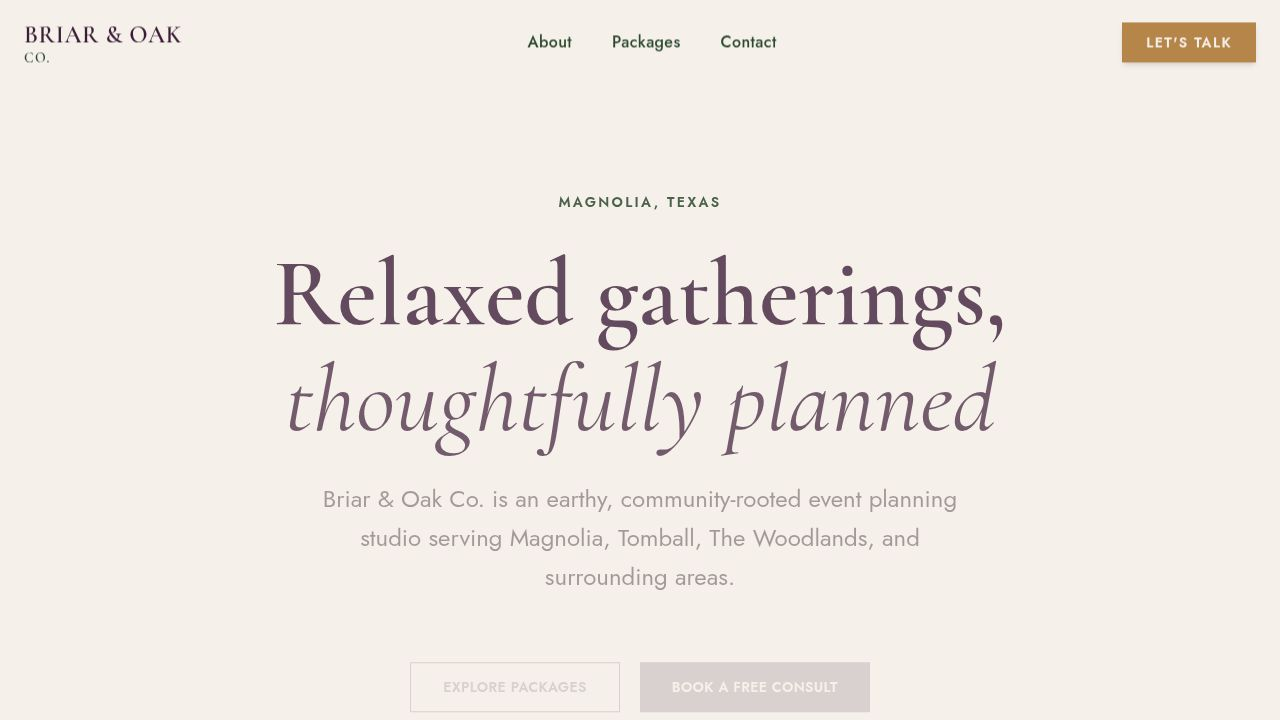
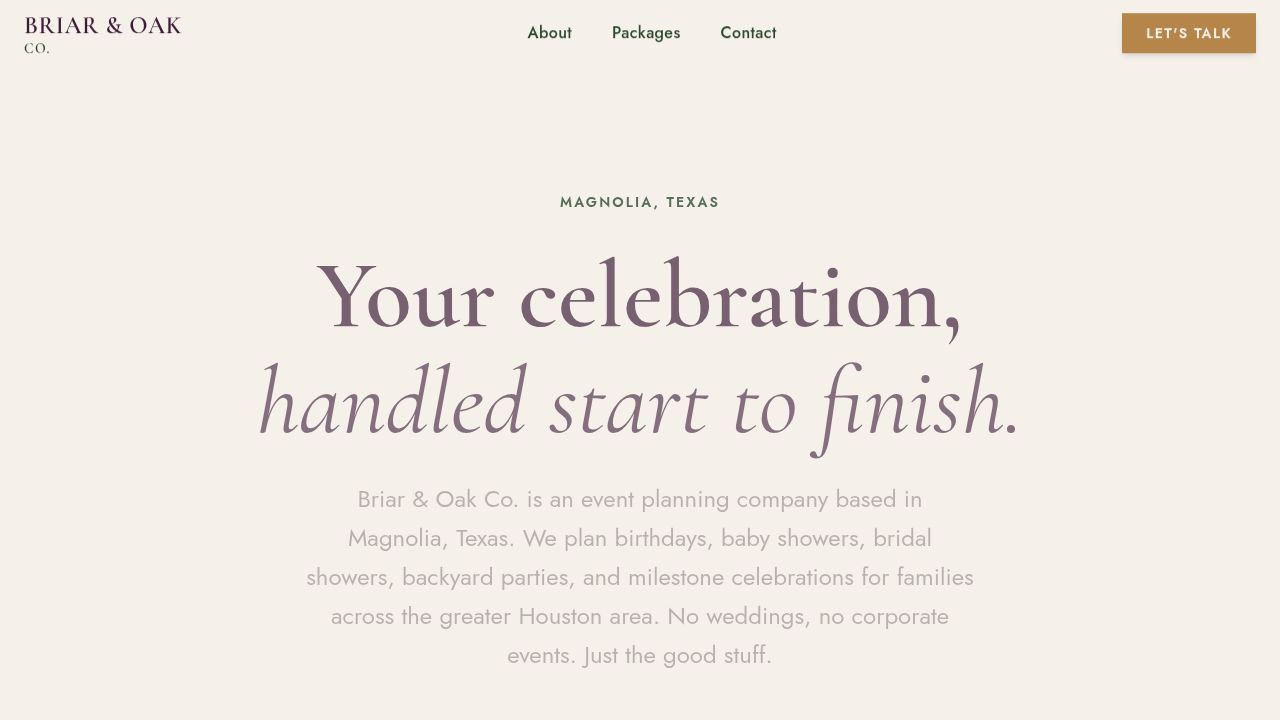
Update website copy to be more engaging and conversion-focused
Rewrote content across multiple sections of the Home page, including the hero section, value propositions, services, how it works, and contact information, to adopt a more direct, plain-English tone. Modified the hero headline from "Relaxed gatherings, thoughtfully planned" to "Your celebration, handled start to finish." Updated the introductory paragraph to remove "boutique," add "backyard parties," and include "No weddings... Just the good stuff." Also adjusted the main heading to "We handle the details. You enjoy the party." and refined descriptions for services and the "How It Works" section.

Replit-Commit-Author: Agent
Replit-Commit-Session-Id: 8c7bea66-9861-49b7-a046-77f193d11296
Replit-Commit-Checkpoint-Type: full_checkpoint
Replit-Commit-Event-Id: e7e9ddc0-1285-43bc-9b09-d9fd657cd020
Replit-Commit-Screenshot-Url: https://storage.googleapis.com/screenshot-production-us-central1/0bafb7d4-fdce-40b5-b9f4-70df4a1e8653/8c7bea66-9861-49b7-a046-77f193d11296/qvYMype
Replit-Helium-Checkpoint-Created: true

diff --git a/artifacts/briar-oak/src/pages/Home.tsx b/artifacts/briar-oak/src/pages/Home.tsx
@@ -63,9 +63,9 @@ export default function Home() {
             transition={{ duration: 0.8, delay: 0.4 }}
             className="text-primary text-5xl md:text-7xl lg:text-8xl font-serif font-semibold leading-[1.1] mb-8"
           >
-            Relaxed gatherings, <br />
+            Your celebration, <br />
             <span className="italic font-light text-primary/90">
-              thoughtfully planned
+              handled start to finish.
             </span>
           </motion.h1>
 
@@ -75,10 +75,10 @@ export default function Home() {
             transition={{ duration: 0.8, delay: 0.6 }}
             className="text-foreground/80 text-xl md:text-2xl mb-12 max-w-2xl mx-auto leading-relaxed font-light"
           >
-            Briar & Oak Co. is a boutique event planning company based in
-            Magnolia, Texas. We specialize in birthdays, baby showers, bridal
-            showers, and milestone celebrations for families across the greater
-            Houston area.
+            Briar & Oak Co. is an event planning company based in Magnolia,
+            Texas. We plan birthdays, baby showers, bridal showers, backyard
+            parties, and milestone celebrations for families across the greater
+            Houston area. No weddings, no corporate events. Just the good stuff.
           </motion.p>
 
           <motion.div
@@ -115,28 +115,28 @@ export default function Home() {
             variants={staggerContainer}
           >
             <motion.h2 variants={fadeUp} className="text-primary text-4xl md:text-5xl font-serif font-semibold mb-8 leading-tight">
-              Beautiful gatherings begin with a thoughtful plan.
+              We handle the details. You enjoy the party.
             </motion.h2>
             <motion.p variants={fadeUp} className="text-foreground/90 text-lg mb-6 leading-relaxed">
-              We specialize in the gatherings that matter most: birthdays, baby showers, bridal showers, milestone celebrations, and everything in between.
+              Birthdays, baby showers, bridal showers, backyard parties, milestone dinners, and everything in between. If it's a gathering worth celebrating, we can plan it.
             </motion.p>
             <motion.p variants={fadeUp} className="text-foreground/80 text-lg mb-10 italic">
-              No weddings. No corporate events. Just meaningful occasions planned with care, right here in your neighborhood.
+              We focus on social events in Magnolia and the surrounding areas. No weddings, no corporate gigs. That focus means every client gets our full attention.
             </motion.p>
             
             <div className="space-y-6">
               {[
                 { 
-                  title: "Thoughtfully Personal", 
-                  desc: "Every detail is shaped around your style, your guests, and your vision—so your celebration feels personal, polished, and truly your own." 
+                  title: "Built Around You", 
+                  desc: "Every plan starts with a real conversation about what you want, who's coming, and how you want the day to feel." 
                 },
                 { 
-                  title: "Calm, Capable Support", 
-                  desc: "Whether you need full event direction or simply a professional plan to follow, we bring structure, clarity, and thoughtful guidance from the very beginning." 
+                  title: "Calm on Event Day", 
+                  desc: "You show up. We run the details behind the scenes so nothing falls through the cracks." 
                 },
                 { 
-                  title: "Rooted in Community", 
-                  desc: "Based in Magnolia since 2020, we know and love this area. We are proud to plan for the families who call it home." 
+                  title: "Local Since 2020", 
+                  desc: "We live and work in Magnolia. We know the venues, the neighborhoods, and the families who make this community great." 
                 }
               ].map((item, idx) => (
                 <motion.div key={idx} variants={fadeUp} className="bg-muted/40 p-6 border-l-4 border-accent hover:bg-muted/80 transition-colors duration-300">
@@ -174,10 +174,10 @@ export default function Home() {
             className="text-center mb-16 md:mb-24"
           >
             <h2 className="text-primary text-4xl md:text-5xl font-serif font-semibold mb-6">
-              Services &amp; Packages
+              What We Offer
             </h2>
             <p className="text-foreground/80 text-lg max-w-2xl mx-auto leading-relaxed">
-              One signature planning experience plus a lighter design-only option, so you can choose the level of support that fits your gathering, your style, and your budget.
+              Two options depending on how much help you want. One is full planning with day-of support. The other is a design session and game plan you can run with yourself.
             </p>
             <p className="mt-6 text-sm text-secondary font-bold uppercase tracking-widest">
               All bookings require a 50% non-refundable retainer
@@ -196,7 +196,7 @@ export default function Home() {
                 Signature Service
               </div>
               <span className="text-xs uppercase tracking-[0.2em] text-secondary font-bold mb-3">
-                Signature Planning &amp; Event Direction
+                Full Planning + Event Day Support
               </span>
               <h3 className="text-primary text-3xl font-serif mb-2">
                 The Briar
@@ -205,7 +205,7 @@ export default function Home() {
                 Starting at $1,500
               </p>
               <p className="text-sm text-foreground/80 leading-relaxed mb-8">
-                For the host who wants a beautifully considered gathering without carrying the weight of every decision, detail, and vendor conversation. The Briar is our signature planning experience—bespoke, polished, and thoughtfully tailored to the way you want your event to feel from the moment guests arrive.
+                The Briar is the right pick if you want someone to handle the planning from start to finish and show up on event day to run things. You focus on your guests. We take care of everything else.
               </p>
               <ul className="text-sm space-y-4 mb-8 flex-grow text-foreground/80">
                 <li className="flex items-start">
@@ -238,7 +238,7 @@ export default function Home() {
                 </li>
               </ul>
               <p className="text-sm italic mb-4 text-foreground/60 border-t border-border pt-4">
-                Designed for intimate celebrations that deserve to feel refined, deeply personal, and quietly elevated.
+                Best for gatherings where you want to feel like a guest, not a coordinator.
               </p>
               <p className="text-xs leading-relaxed text-foreground/60 mb-8">
                 Onsite coverage is focused on overseeing setup, guiding vendors, styling final details, and staying through the beginning of your event until everything is moving smoothly. If you’d like support beyond that point—such as dinner service, toasts, cake cutting, or teardown—extended coverage can be added for an additional fee.
@@ -247,7 +247,7 @@ export default function Home() {
                 onClick={scrollTo("contact")}
                 className="block w-full text-center py-4 text-xs font-bold uppercase tracking-[0.2em] bg-accent text-accent-foreground hover:bg-primary transition-all duration-300"
               >
-                Begin Your Briar Experience
+                Inquire About The Briar
               </button>
             </motion.div>
             {/* The Seedling - planning only */}
@@ -259,7 +259,7 @@ export default function Home() {
               className="bg-background p-8 lg:p-10 flex flex-col h-full border border-border shadow-sm hover:shadow-md hover:-translate-y-1 transition-all duration-300"
             >
               <span className="text-xs uppercase tracking-[0.2em] text-secondary font-bold mb-3">
-                Design &amp; Game Plan
+                Design Session + Game Plan
               </span>
               <h3 className="text-primary text-3xl font-serif mb-2">
                 The Seedling
@@ -268,7 +268,7 @@ export default function Home() {
                 Flat fee starting around $400–$600
               </p>
               <p className="text-sm text-foreground/80 leading-relaxed mb-8">
-                For the host who loves a beautiful gathering and simply wants an expert plan before taking it from there. The Seedling is a focused design and strategy service that gives you a clear vision, an organized roadmap, and the confidence to execute it yourself.
+                The Seedling is for hosts who want a solid plan and a clear vision but prefer to handle the setup and execution themselves. We meet, map it out, and hand you a plan you can actually use.
               </p>
               <ul className="text-sm space-y-4 mb-8 flex-grow text-foreground/80">
                 <li className="flex items-start">
@@ -297,13 +297,13 @@ export default function Home() {
                 </li>
               </ul>
               <p className="text-sm italic mb-8 text-foreground/60 border-t border-border pt-4">
-                Perfect for DIY-minded hosts who want the benefit of a professional eye and a cohesive plan, then carry it out themselves.
+                A good pick for DIY hosts who want a professional eye without the full-service price tag.
               </p>
               <button
                 onClick={scrollTo("contact")}
                 className="block w-full text-center py-4 text-xs font-bold uppercase tracking-[0.2em] bg-primary text-primary-foreground hover:bg-primary/90 transition-all duration-300"
               >
-                Book Your Design Session
+                Book a Design Session
               </button>
             </motion.div>
           </div>
@@ -320,7 +320,7 @@ export default function Home() {
                 How It Works
               </h3>
               <p className="text-foreground/75 text-base md:text-lg max-w-2xl mx-auto leading-relaxed">
-                Every Briar &amp; Oak Co. experience begins with a conversation, then moves into the level of support that best fits your gathering.
+                Every project starts with a free consult call. From there, it depends on which package fits your event.
               </p>
             </motion.div>
             <div className="grid md:grid-cols-2 gap-10 md:gap-12">
@@ -343,7 +343,7 @@ export default function Home() {
                   </div>
                   <div className="border-l-2 border-accent pl-5">
                     <p className="text-xs uppercase tracking-[0.18em] text-secondary font-bold mb-2">Step 3</p>
-                    <p className="text-foreground/85 leading-relaxed">We begin planning. From design direction to vendor coordination and event logistics, I handle the moving parts behind the scenes while keeping you focused on the decisions that matter most.</p>
+                    <p className="text-foreground/85 leading-relaxed">We get to work. Design direction, vendor sourcing, logistics, and all the back-and-forth that comes with planning a real event.</p>
                   </div>
                   <div className="border-l-2 border-accent pl-5">
                     <p className="text-xs uppercase tracking-[0.18em] text-secondary font-bold mb-2">Step 4</p>
@@ -357,12 +357,12 @@ export default function Home() {
                   The Seedling
                 </p>
                 <h4 className="text-primary text-2xl font-serif mb-6">
-                  Design &amp; Game Plan Process
+                  Design Session Process
                 </h4>
                 <div className="space-y-6">
                   <div className="border-l-2 border-accent pl-5">
                     <p className="text-xs uppercase tracking-[0.18em] text-secondary font-bold mb-2">Step 1</p>
-                    <p className="text-foreground/85 leading-relaxed">Begin with a complimentary consult so we can talk through your event and confirm whether The Seedling is the right fit, or if your gathering would benefit from a more hands-on planning experience.</p>
+                    <p className="text-foreground/85 leading-relaxed">We start with a free call to talk through your event and make sure The Seedling is the right fit.</p>
                   </div>
                   <div className="border-l-2 border-accent pl-5">
                     <p className="text-xs uppercase tracking-[0.18em] text-secondary font-bold mb-2">Step 2</p>
@@ -370,7 +370,7 @@ export default function Home() {
                   </div>
                   <div className="border-l-2 border-accent pl-5">
                     <p className="text-xs uppercase tracking-[0.18em] text-secondary font-bold mb-2">Step 3</p>
-                    <p className="text-foreground/85 leading-relaxed">We meet for a focused 60–90 minute planning and design session to walk through your space, layout, style, and setup priorities.</p>
+                    <p className="text-foreground/85 leading-relaxed">We meet for 60 to 90 minutes to go over your space, layout, style, and setup priorities.</p>
                   </div>
                   <div className="border-l-2 border-accent pl-5">
                     <p className="text-xs uppercase tracking-[0.18em] text-secondary font-bold mb-2">Step 4</p>
@@ -429,16 +429,16 @@ export default function Home() {
           className="text-foreground/90 text-lg md:text-xl leading-relaxed mb-6 font-light space-y-5 text-center mx-auto max-w-3xl"
         >
           <p>
-            I came to event planning the long way around. After years of managing complex programs in tech, juggling timelines, solving challenges, making sure every detail came together, I realized the moments that actually matter to me weren't happening in conference rooms. They were the dinners with friends, the celebrations with family, the gatherings that brought people together around a table.
+            Before I started Briar & Oak, I spent years in tech managing complex programs with tight deadlines and a lot of moving parts. I was good at it. But my favorite projects were always the ones that happened outside of work: the birthday dinners, the family gatherings, the events where people actually showed up and stayed too long.
           </p>
           <p>
-            That realization changed everything. I wanted to create that magic for others, to handle all the moving parts so you can actually be present with the people you love.
+            I started this business because I wanted to do that for other people. Show up, handle the details, and make it easier for you to be present with the people you're celebrating with.
           </p>
           <p>
-            Briar & Oak Co. is about protecting and honoring those moments. Whether it's your 40th birthday, your daughter's baby shower, or a milestone that deserves more than logistics, I'm here to make sure every detail reflects who you are and what this celebration means.
+            We focus on social events only: birthdays, baby showers, bridal showers, backyard parties, and milestone celebrations in Magnolia and the surrounding areas. No weddings, no corporate work. That keeps my schedule and my attention where they belong.
           </p>
           <p>
-            I bring a project manager's precision and a hostess's genuine warmth to your event. I'll sweat the details so you don't have to.
+            If you want someone who takes your event as seriously as you do and knows how to stay calm when things get complicated, I think we'll work well together.
           </p>
         </motion.div>
 
@@ -482,23 +482,23 @@ export default function Home() {
               variants={fadeUp}
               className="text-4xl md:text-5xl lg:text-6xl font-serif font-semibold mb-6 leading-tight"
             >
-              Let's plan something{" "}
-              <span className="italic text-accent">beautiful.</span>
+              Ready to get{" "}
+              <span className="italic text-accent">started?</span>
             </motion.h2>
             <motion.p
               variants={fadeUp}
               className="text-primary-foreground/80 text-lg mb-12 font-light leading-relaxed max-w-md"
             >
-              Tell us a little about your event and we'll reach out within 1 to
-              2 business days to set up a short, no-pressure consultation call.
+              Fill out the form and we'll be in touch within 1 to
+              2 business days to set up a free call.
             </motion.p>
 
             <div className="space-y-8">
               {[
-                { step: "1", text: "Fill out the inquiry form" },
-                { step: "2", text: "We'll reach out within 1-2 business days" },
-                { step: "3", text: "Free consultation call to find your fit" },
-                { step: "4", text: "Secure your date with a 50% retainer" },
+                { step: "1", text: "Submit your inquiry" },
+                { step: "2", text: "Hear back within 1 to 2 business days" },
+                { step: "3", text: "Free consult call to talk through your event" },
+                { step: "4", text: "Sign and pay your retainer to hold your date" },
               ].map((item, idx) => (
                 <motion.div
                   key={idx}
